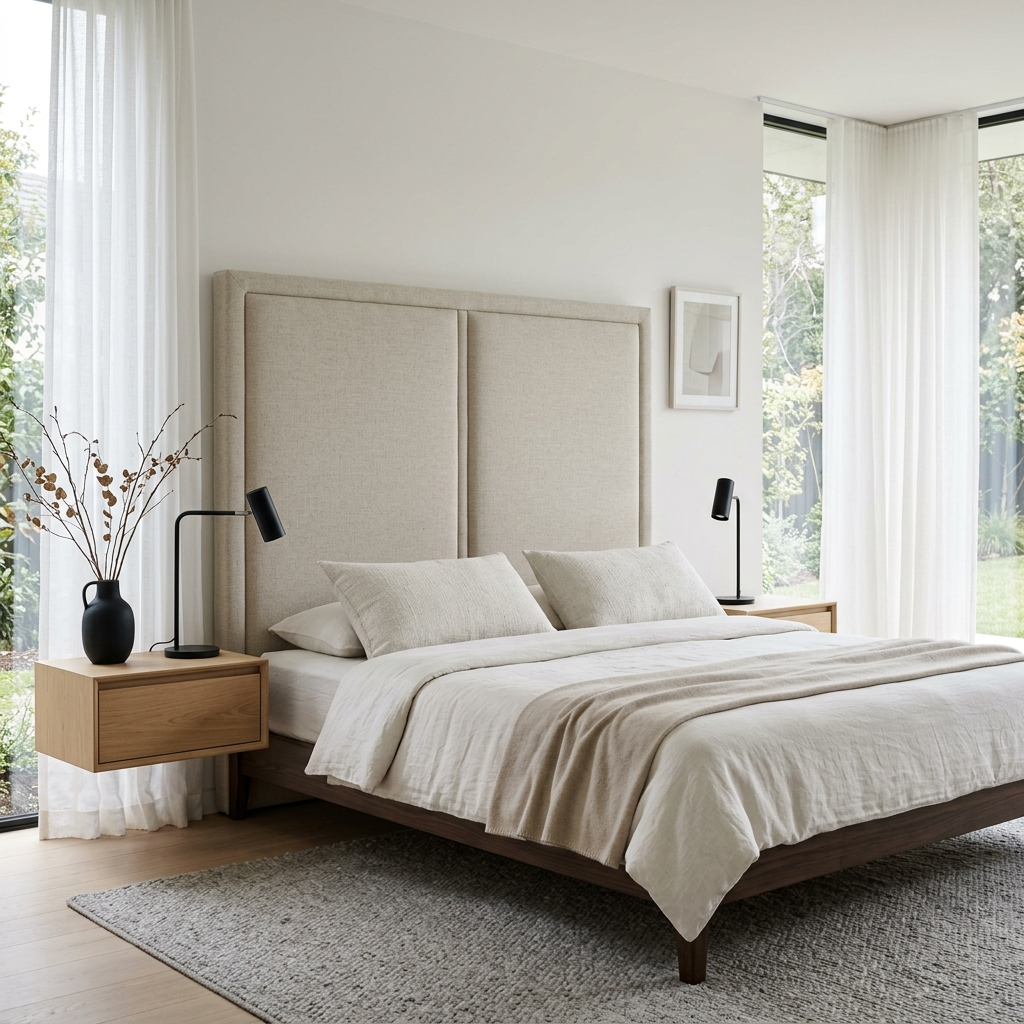
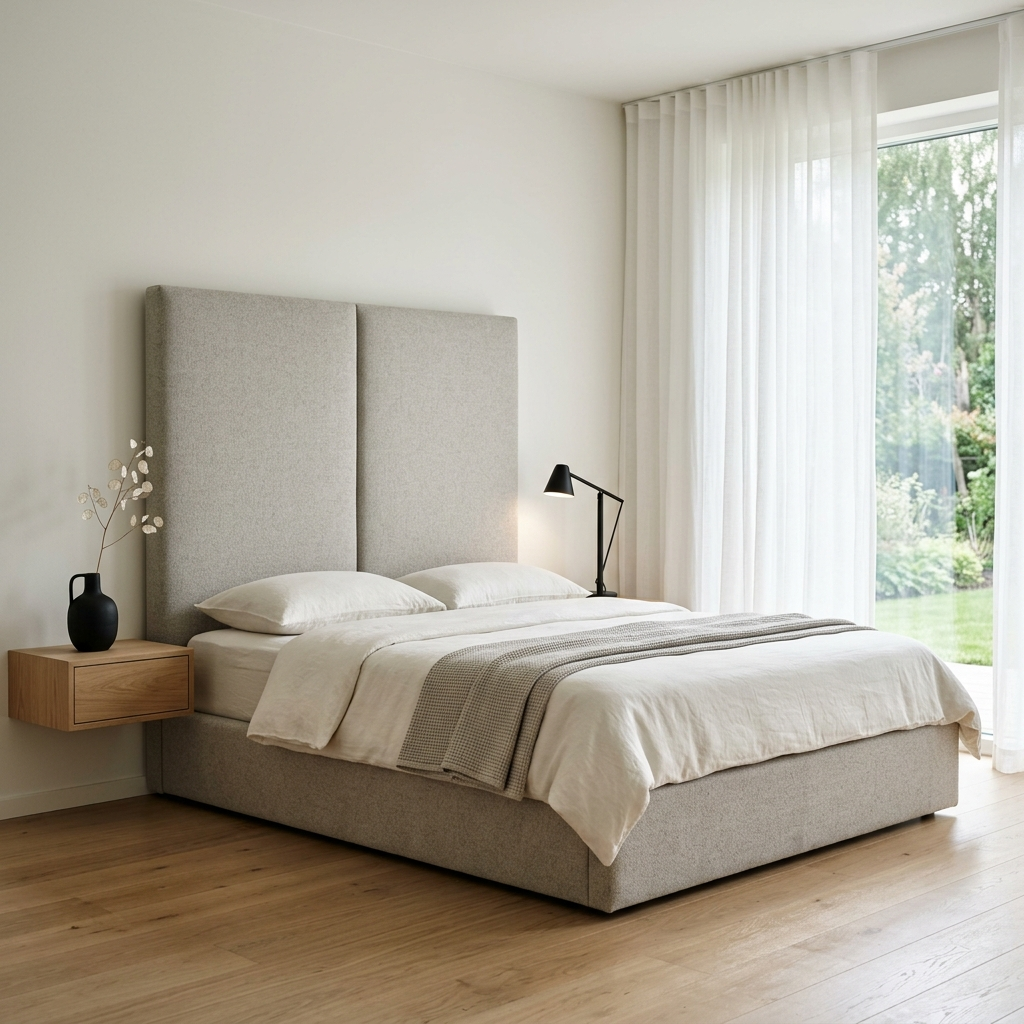
feat: add Oslo product to inventory and update footer component

diff --git a/src/data/productos.js b/src/data/productos.js
@@ -64,12 +64,10 @@ export const productos = [
   {id: 62,nombre: "Mesa Amsterdam",precio: 180,categoria: "Mesas",imagen: "/mesas/amsterdam.png",desc: "Diseño Exclusivo"},
   {id: 63,nombre: "Mesa Auckland",precio: 220,categoria: "Mesas",imagen: "/mesas/auckland.png",desc: "Diseño Exclusivo"},
   {id: 64,nombre: "Mesa Corsica Gris",precio: 160,categoria: "Mesas",imagen: "/mesas/corsica-gris.png",desc: "Diseño Exclusivo"},
-  {id: 65,nombre: "Mesa Corsica",precio: 160,categoria: "Mesas",imagen: "/mesas/corsica.png",desc: "Diseño Exclusivo"},
   {id: 66,nombre: "Mesa Dubai",precio: 260,categoria: "Mesas",imagen: "/mesas/dubai.png",desc: "Diseño Exclusivo"},
   {id: 67,nombre: "Mesa Kenia",precio: 170,categoria: "Mesas",imagen: "/mesas/kenia.png",desc: "Diseño Exclusivo"},
-  {id: 68,nombre: "Mesa Luxemburgo",precio: 900,categoria: "Mesas",imagen: "/mesas/luxemburgo.png",desc: "Diseño Exclusivo"},
+  {id: 68,nombre: "Vanity Luxemburgo",precio: 900,categoria: "Mesas",imagen: "/mesas/luxemburgo.png",desc: "Diseño Exclusivo"},
   {id: 69,nombre: "Mesa New York",precio: 190,categoria: "Mesas",imagen: "/mesas/new-york.png",desc: "Diseño Exclusivo"},
-  {id: 70,nombre: "Mesa Paris",precio: 170,categoria: "Mesas",imagen: "/mesas/paris.png",desc: "Diseño Exclusivo"},
   {id: 70,nombre: "Mesa Paris",precio: 170,categoria: "Mesas",imagen: "/mesas/paris.png",desc: "Diseño Exclusivo"}
 ];
 

diff --git a/src/components/Footer.jsx b/src/components/Footer.jsx
@@ -29,7 +29,7 @@ export default function Footer() {
               <a href="https://wa.me/584145847791" target="_blank" rel="noopener noreferrer" className="text-gray-400 hover:text-white transition-colors">
                 <Phone size={18} />
               </a>
-              <a href="#" className="text-gray-400 hover:text-white transition-colors">
+              <a href="https://www.facebook.com/share/1Hfbm8dQrs/?mibextid=wwXIfr" target="_blank" rel="noopener noreferrer" className="text-gray-400 hover:text-white transition-colors">
                 <Facebook size={18} />
               </a>
             </div>
